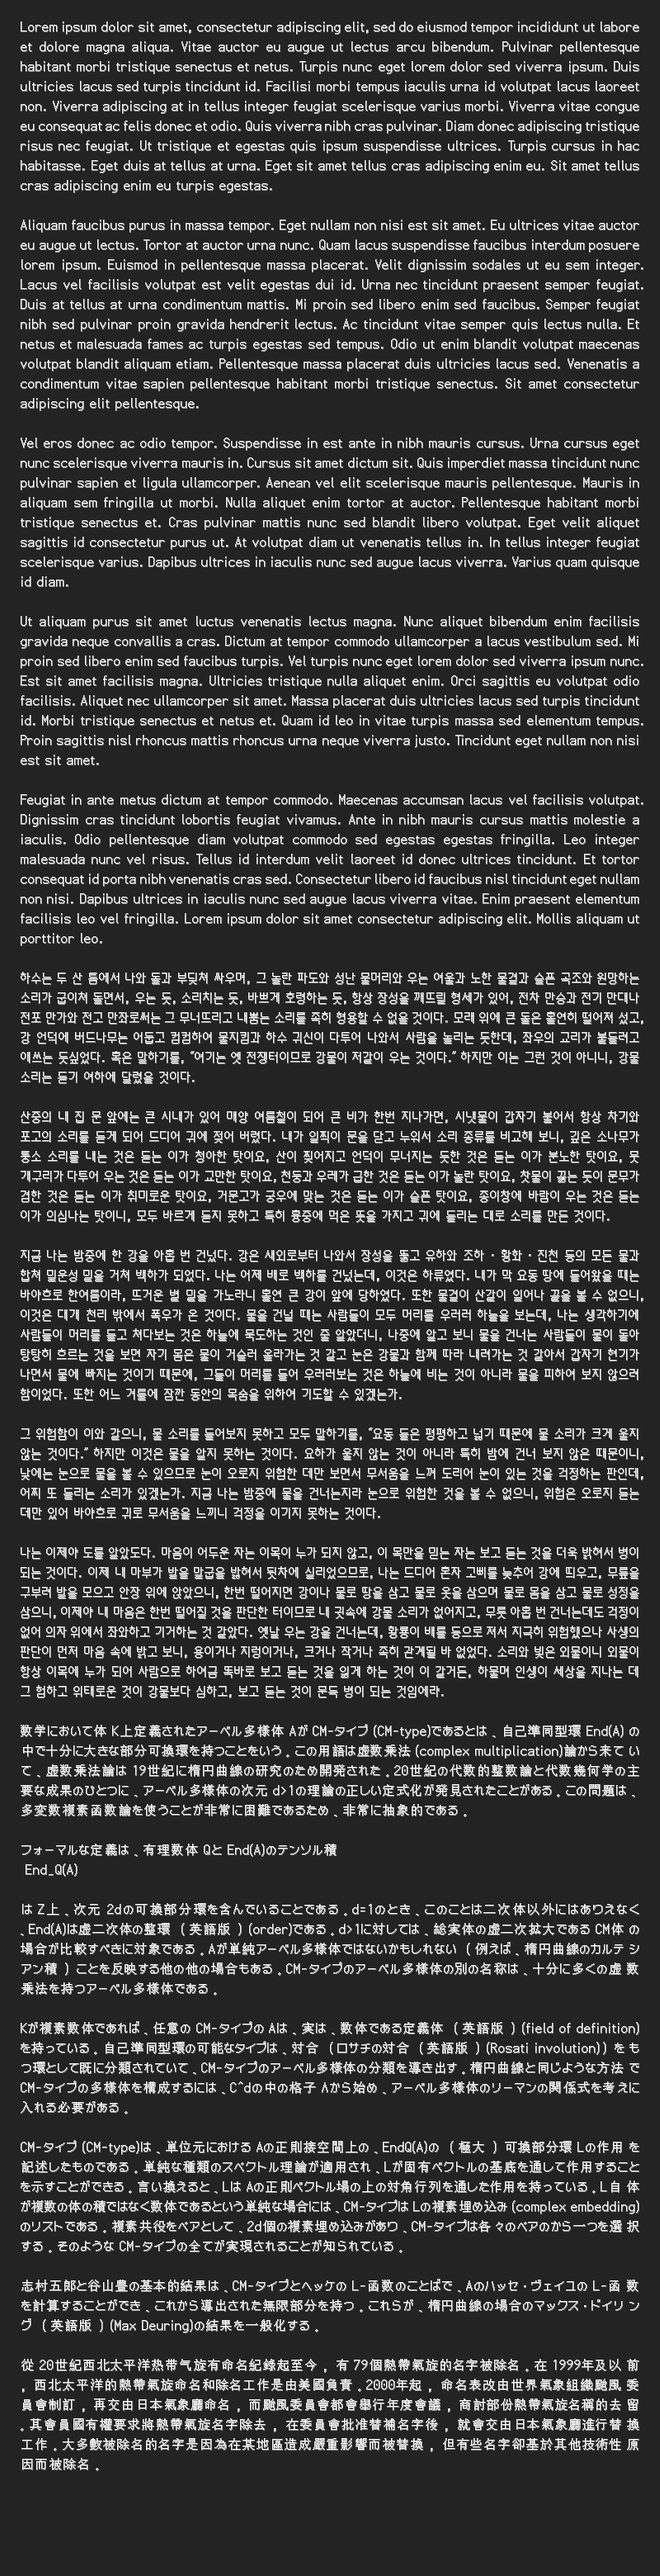
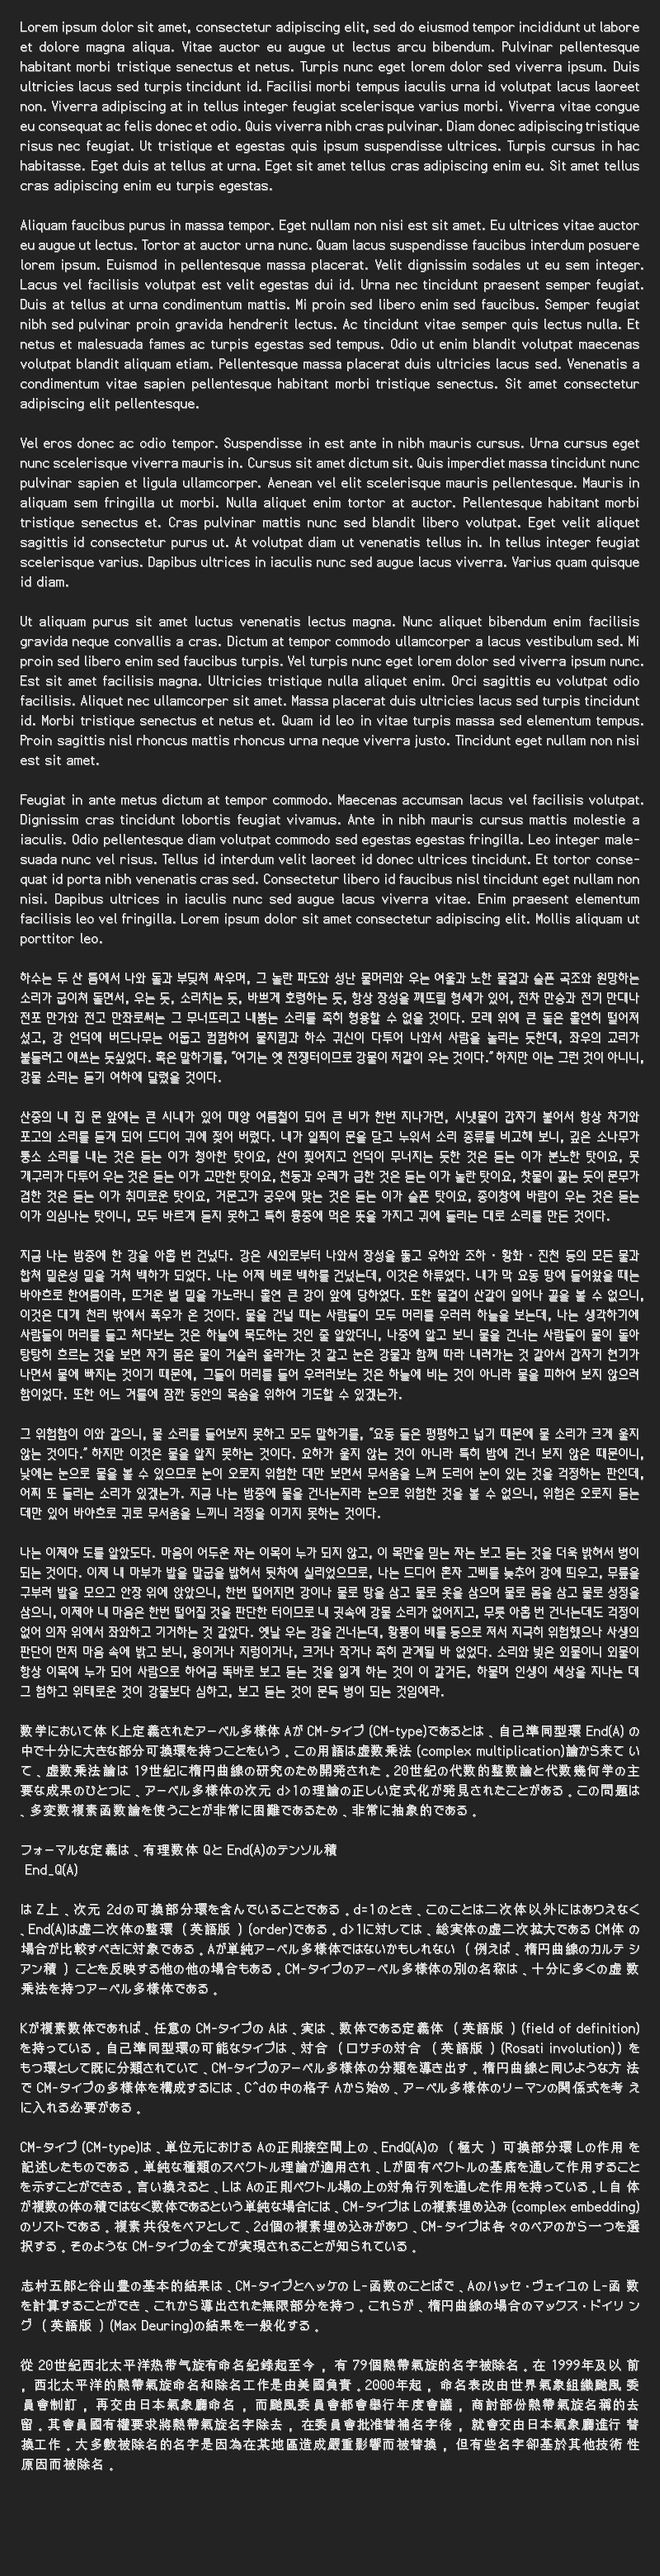
better hyphenation

diff --git a/src/net/torvald/terrarumsansbitmap/MovableType.kt b/src/net/torvald/terrarumsansbitmap/MovableType.kt
@@ -121,12 +121,11 @@ class MovableType(
                 val thisWordObj = inputWords[wordCount]
                 val thisWord = thisWordObj.glyphLayout!!
 
-                val dropped = currentLine.removeLast()
-                val newBlock = Block(dropped.posX, thisWordObj)
+                val newBlock = Block(currentLine.last().getEndPos() + spaceWidth, thisWordObj)
                 currentLine.add(newBlock)
 
                 val lineWidthNow = if (currentLine.isEmpty()) -spaceWidth
-                else currentLine.penultimate().let { it.posX + it.block.glyphLayout!!.width } - 1 // subtract the tiny space AFTER the hyphen
+                else currentLine.penultimate().getEndPos() - 1 // subtract the tiny space AFTER the hyphen
 
                 justifyAndFlush(lineWidthNow, thisWordObj, thisWord, true, scoreForHyphenateThenTryAgain0, scoreForHyphenateThenTryAgain)
             }
@@ -168,7 +167,7 @@ class MovableType(
                 }
 
 
-                val widthOld = currentLine.last().let { it.posX + it.block.glyphLayout!!.width }
+                val widthOld = currentLine.last().getEndPos()
 
                 val anchorsOld = currentLine.map { it.posX }
 
@@ -180,7 +179,7 @@ class MovableType(
 
                 val anchorsNew = currentLine.map { it.posX }
 
-                val widthNew = currentLine.last().let { it.posX + it.block.glyphLayout!!.width }
+                val widthNew = currentLine.last().getEndPos()
 
                 val lineHeader = "Strategy [L ${lines.size}]: "
                 val lineHeader2 = " ".repeat(lineHeader.length)
@@ -210,7 +209,7 @@ class MovableType(
             thisWordStr = thisWord.textBuffer // ALWAYS starts and ends with \0
 
             lineWidthNow = if (currentLine.isEmpty()) -spaceWidth
-            else currentLine.last().let { it.posX + it.block.glyphLayout!!.width }
+            else currentLine.last().getEndPos()
 
             // thisWordStr.size > 2 : ignores nulls that somehow being inserted between CJ characters
             // (thisWordStr.size == 2 && currentLine.isEmpty()) : but DON'T ignore new empty lines (the line starts with TWO NULLS then NULL-LF-NULL)
@@ -279,7 +278,9 @@ class MovableType(
         }
     }
 
-    private data class Block(var posX: Int, val block: TextCacheObj) // a single word
+    private data class Block(var posX: Int, val block: TextCacheObj) { // a single word
+        fun getEndPos() = this.posX + this.block.glyphLayout!!.width
+    }
 
     companion object {
         private val periods = listOf(0x2E, 0x3A, 0x21, 0x3F, 0x2026, 0x3002, 0xff0e).toSortedSet()
@@ -384,9 +385,9 @@ class MovableType(
             return this[this.size - 2]
         }
 
-        private fun penaliseTightening(score: Int): Float = 0.06f * score * score * score + 0.036f * score
+        private fun penaliseTightening(score: Int): Float = 0.0006f * score * score * score + 0.18f * score
 
-        private fun penaliseHyphenation(score: Int): Float = (14.6 * pow(score.toDouble(), 1.0/3.0) + 0.14*score).toFloat()
+        private fun penaliseHyphenation(score: Int): Float = (10.0 * pow(score.toDouble(), 1.0/3.0) + 0.47*score).toFloat()
 
         private fun CodePoint.isCJ() = listOf(4, 6).any {
             TerrarumSansBitmap.codeRange[it].contains(this)
